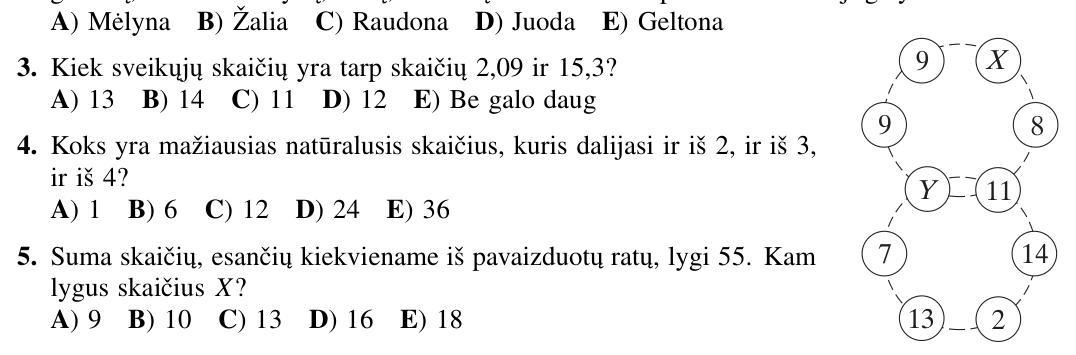
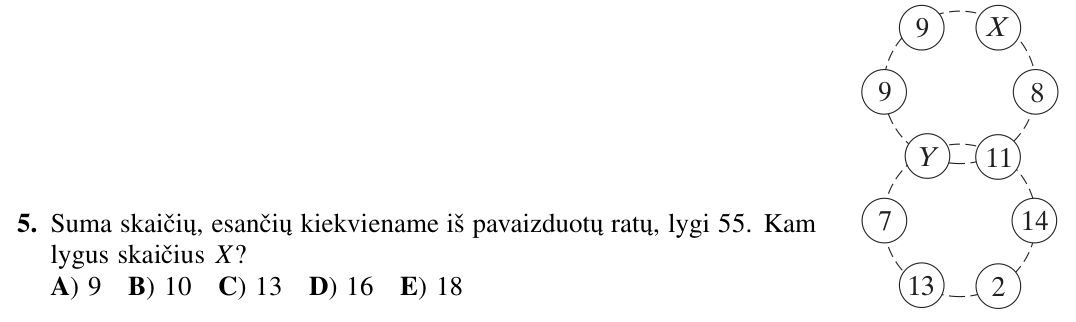
Loop 231: 2003-4/5 – the ring drawing only where it belongs
2003-5 showed Q3 and Q4 in full beside the drawing; 2003-4 had half of
Q5's drawing. EXTRA_MASK (page areas painted out of an automatic crop)
and MANUAL masks fix both. FIGS v14.

diff --git a/sw.js b/sw.js
@@ -3,7 +3,7 @@
    the next load, offline still opens the app. Figures (png): cache-first,
    filled on demand → a paper the kid has opened once works offline. */
 const SHELL = "kengura-shell-v2";
-const FIGS = "kengura-figs-v13";   // bump whenever a figure PNG is replaced (cache-first!)
+const FIGS = "kengura-figs-v14";   // bump whenever a figure PNG is replaced (cache-first!)
 const SHELL_URLS = ["./", "kengura.html", "kengura-archive.js", "manifest.webmanifest", "icon.svg"];
 
 self.addEventListener("install", e => {

diff --git a/_recrop.py b/_recrop.py
@@ -100,8 +100,11 @@ def locate(doc, n, old):
 # but belong to the previous question (checked by eye)
 FORCE_MASK = {('2017', 14): {'9818192'}, ('2010', 12): {'20', '+', '10'}}
 
+# page areas painted out in an automatic crop (checked by eye)
+EXTRA_MASK = {('2003', 4): [(383, 290, 475, 470)]}   # Q5's ring drawing beside Q3-Q5
+
 MANUAL = {  # (year, num): (page index, clip[, masks]) – picture spread over neighbouring questions
-    ('2003', 5): (4, (71, 308, 469, 439)),
+    ('2003', 5): (4, (71, 320, 469, 439), [(71, 312, 386, 397)]),   # Q3/Q4 text beside the drawing painted out
     # the grid's top row sits beside Q19's options (its centre is above the header)
     ('2024', 20): (1, (424, 286, 830, 377), [(420, 270, 734, 292)]),
 }
@@ -198,7 +201,7 @@ def crop(pdf, n, old, year=None):
         mid = (c.y0 + c.y1) / 2
         if clip.intersects(c) and not (lo - 2 <= mid < hi + 2) and not any(o.contains(c) for o in own)                 and not any(c.intersects(r) for r in mine):
             masks.append(c + (-1, -1, 1, 1))
-    crop.last_masks = masks
+    crop.last_masks = masks + [fitz.Rect(*m) for m in EXTRA_MASK.get((year, n), [])]
     return page, clip
 
 if __name__ == '__main__':
